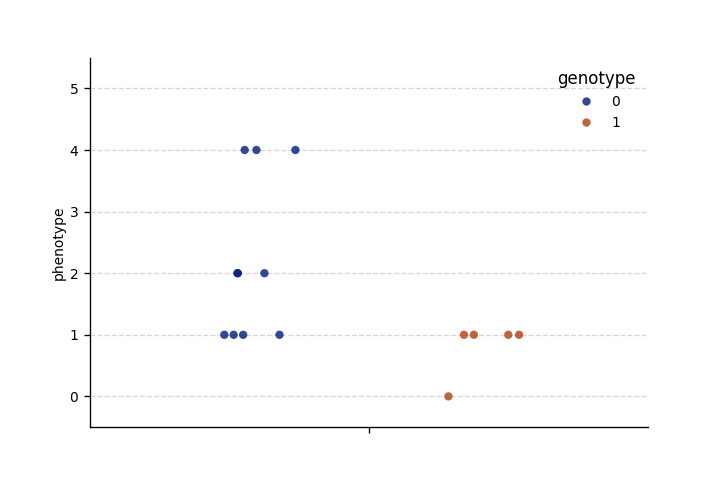
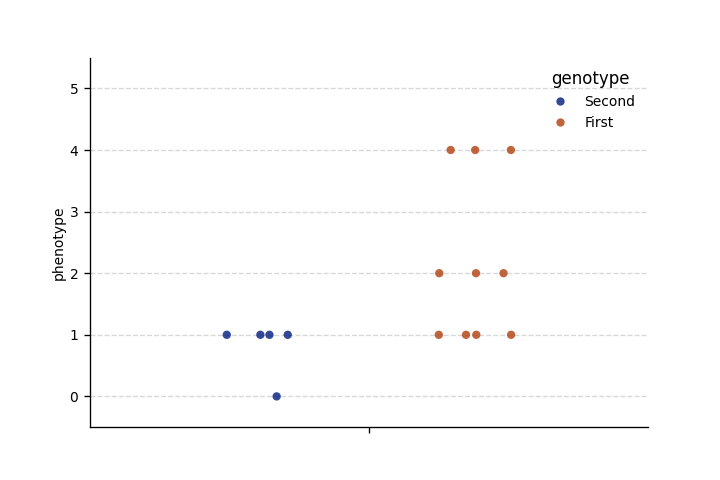
Do phenotype scoring instead.

diff --git a/src/genophenocorr/analysis/_gp_impl.py b/src/genophenocorr/analysis/_gp_impl.py
@@ -1,14 +1,12 @@
 import logging
 import typing
 
-from collections import defaultdict
-
 import hpotk
 import pandas as pd
 
 from scipy.stats import mannwhitneyu
 
-from genophenocorr.model import Cohort
+from genophenocorr.model import Cohort, Patient
 from genophenocorr.preprocessing import ProteinMetadataService
 from .predicate import GenotypePolyPredicate
 from .predicate.genotype import VariantPredicate
@@ -17,7 +15,7 @@ from .predicate.genotype import grouping_predicate as wrap_as_grouping_predicate
 from .predicate.genotype import recessive_predicate as wrap_as_recessive_predicate
 from .predicate.phenotype import PhenotypePolyPredicate, P, PropagatingPhenotypePredicate, DiseasePresencePredicate, CountingPhenotypePredicate
 
-from ._api import CohortAnalysis, GenotypePhenotypeAnalysisResult, PhenotypeGroupAnalysisResult
+from ._api import CohortAnalysis, GenotypePhenotypeAnalysisResult, PhenotypeScoreAnalysisResult
 from ._filter import PhenotypeFilter
 from ._gp_analysis import GPAnalyzer
 
@@ -129,7 +127,7 @@ class GpCohortAnalysis(CohortAnalysis):
         self,
         phenotype_group_terms: typing.Iterable[typing.Union[str, hpotk.TermId]],
         gt_predicate: GenotypePolyPredicate,
-    ) -> PhenotypeGroupAnalysisResult:
+    ) -> PhenotypeScoreAnalysisResult:
         assert isinstance(gt_predicate, GenotypePolyPredicate)
         assert gt_predicate.n_categorizations() == 2
 
@@ -138,7 +136,16 @@ class GpCohortAnalysis(CohortAnalysis):
             query=phenotype_group_terms,
         )
 
-        # Apply the predicates on the patients
+        return self.compare_genotype_vs_phenotype_score(
+            gt_predicate=gt_predicate,
+            phenotype_scorer=phenotype_predicate,
+        )
+
+    def compare_genotype_vs_phenotype_score(
+        self,
+        gt_predicate: GenotypePolyPredicate,
+        phenotype_scorer: typing.Callable[[Patient,], float],
+    ) -> PhenotypeScoreAnalysisResult:
         idx = pd.Index(tuple(p.patient_id for p in self._patient_list), name='patient_id')
         data = pd.DataFrame(
             None,
@@ -146,11 +153,11 @@ class GpCohortAnalysis(CohortAnalysis):
             columns=['genotype', 'phenotype'],
         )
 
+        # Apply the predicates on the patients
         for patient in self._patient_list:
             gt_cat = gt_predicate.test(patient)
-            ph_cat = phenotype_predicate.test(patient)
             data.loc[patient.patient_id, 'genotype'] = None if gt_cat is None else gt_cat.category.name
-            data.loc[patient.patient_id, 'phenotype'] = ph_cat.phenotype
+            data.loc[patient.patient_id, 'phenotype'] = phenotype_scorer(patient)
 
         # To improve the determinism
         data.sort_index(inplace=True)
@@ -158,16 +165,16 @@ class GpCohortAnalysis(CohortAnalysis):
         # Sort by PatientCategory.cat_id and unpack.
         # For now, we only allow to have up to 2 groups.
         x_key, y_key = sorted(data['genotype'].dropna().unique())
-        x = data.loc[data['genotype'] == x_key, 'phenotype'].to_numpy(dtype=int)
-        y = data.loc[data['genotype'] == y_key, 'phenotype'].to_numpy(dtype=int)
+        x = data.loc[data['genotype'] == x_key, 'phenotype'].to_numpy(dtype=float)
+        y = data.loc[data['genotype'] == y_key, 'phenotype'].to_numpy(dtype=float)
         result = mannwhitneyu(
             x=x,
             y=y,
             alternative='two-sided',
         )
 
-        return PhenotypeGroupAnalysisResult(
-            phenotype_group_counts=data,
+        return PhenotypeScoreAnalysisResult(
+            phenotype_score_counts=data,
             p_value=float(result.pvalue),
         )
 

diff --git a/src/genophenocorr/analysis/_api.py b/src/genophenocorr/analysis/_api.py
@@ -227,19 +227,19 @@ class GenotypePhenotypeAnalysisResult:
             return term_id.value
 
 
-class PhenotypeGroupAnalysisResult:
+class PhenotypeScoreAnalysisResult:
     """
-    `PhenotypeGroupAnalysisResult` includes results of testing genotypes vs. phenotype groups.
+    `PhenotypeScoreAnalysisResult` includes results of testing genotypes vs. phenotype scores.
 
-    See :ref:`Mann Whitney U Test for phenotype groups <phenotype-group-stats>` for more background.
+    See :ref:`Mann Whitney U Test for phenotype score <phenotype-score-stats>` for more background.
     """
 
     def __init__(
         self,
-        phenotype_group_counts: pd.DataFrame,
+        phenotype_score_counts: pd.DataFrame,
         p_value: float,
     ):
-        self._phenotype_group_counts = phenotype_group_counts
+        self._phenotype_score_counts = phenotype_score_counts
         self._p_value = p_value
 
     @property
@@ -260,7 +260,7 @@ class PhenotypeGroupAnalysisResult:
         ...         ...       ...
         ==========  ========  =========
         """
-        return self._phenotype_group_counts
+        return self._phenotype_score_counts
 
     @property
     def p_value(self) -> float:
@@ -268,7 +268,7 @@ class PhenotypeGroupAnalysisResult:
 
     def __str__(self) -> str:
         return 'PhenotypeGroupAnalysisResult(' \
-            f'phenotype_group_counts={self._phenotype_group_counts}, ' \
+            f'phenotype_score_counts={self._phenotype_score_counts}, ' \
             f'p_value={self._p_value})'
 
     def __repr__(self) -> str:
@@ -335,24 +335,18 @@ class CohortAnalysis(metaclass=abc.ABCMeta):
         pass
 
     @abc.abstractmethod
-    def compare_symptom_count_vs_genotype(
+    def compare_genotype_vs_phenotype_score(
         self,
-        phenotype_group_terms: typing.Iterable[typing.Union[str, hpotk.TermId]],
         gt_predicate: GenotypePolyPredicate,
-    ) -> PhenotypeGroupAnalysisResult:
+        phenotype_scorer: typing.Callable[[Patient,], float],
+    ) -> PhenotypeScoreAnalysisResult:
         """
-        Bin the patients according to the count of phenotype groups
-        determined by `phenotype_group_terms` and genotype groups based on `predicate`.
-
-        Each patient is assigned with the number of phenotype groups, based on the match between
-        phenotypic terms (incl. descendants) and `phenotype_group_terms`.
-
-        We test for association between the phenotype group count and the variant groups.
+        Score the patients with a phenotype scoring method and test for correlation between the genotype group
+        and the phenotype score.
 
         Args:
-            phenotype_group_terms: an iterable with HPO term CURIEs (e.g. `'HP:0001250'` for Seizure)
-                or HPO term IDs
-            gt_predicate: a genotype predicate for binning the patients along the genotype axis
+            gt_predicate: a genotype predicate for binning the patients along the genotype axis.
+            phenotype_scorer: a callable that computes a phenotype score for a given `Patient`.
         """
         pass
 

diff --git a/docs/user-guide/stats.rst b/docs/user-guide/stats.rst
@@ -57,7 +57,7 @@ Note that by default, the *two-tailed* Fisher exact test is performed, meaning w
 hypothesis as to whether there is a higher or lower frequency in one of the genotype groups. 
 
 
-.. _phenotype-group-stats:
+.. _phenotype-score-stats:
 
 Mann-Whitney U Test 
 ~~~~~~~~~~~~~~~~~~~
@@ -191,11 +191,11 @@ We have the counts:
 >>> counts.head()  # doctest: +NORMALIZE_WHITESPACE
                                      genotype phenotype
 patient_id                                             
-Subject 10[PMID_27087320_Subject_10]        1         0
-Subject 1[PMID_27087320_Subject_1]          0         4
+Subject 10[PMID_27087320_Subject_10]   Second         0
+Subject 1[PMID_27087320_Subject_1]      First         4
 Subject 2[PMID_27087320_Subject_2]       None         4
-Subject 2[PMID_29330883_Subject_2]          1         1
-Subject 3[PMID_27087320_Subject_3]          0         4
+Subject 2[PMID_29330883_Subject_2]     Second         1
+Subject 3[PMID_27087320_Subject_3]      First         4
 
 
 Let's plot the data:
